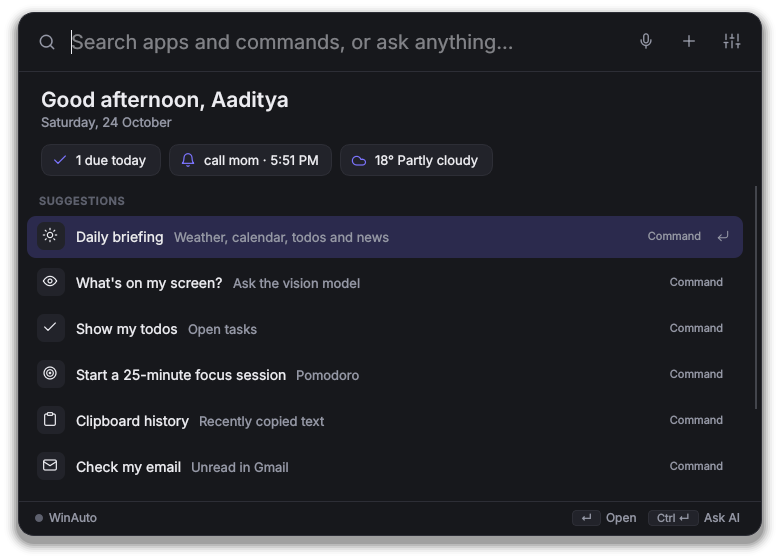
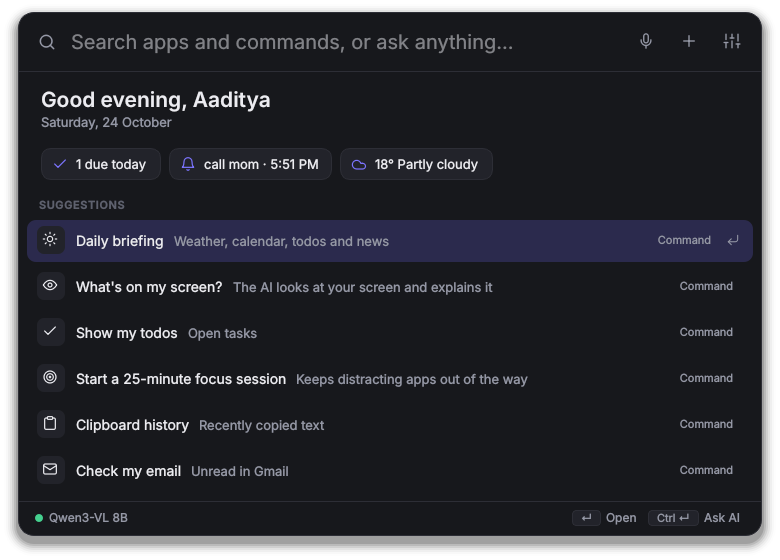
First-run home fits: cards keep their height, chips wait for the welcome card
With the welcome card, the AI download card and a weather chip all showing,
the cards were squashed and cut off. Cards now keep their full height, the
suggestions list scrolls instead, the chips come back after "Got it", and
the download message fits on one line. New screenshots in the docs.

Claude-Session: https://claude.ai/code/session_019hB6Vm8x9MLf8WnbyQBEFs

diff --git a/winauto/ui/home.py b/winauto/ui/home.py
@@ -41,13 +41,13 @@ class HomeView(QWidget):
         # First run only: how to use WinAuto.
         self.welcome = WelcomeCard(palette)
         welcome_box = QHBoxLayout()
-        welcome_box.setContentsMargins(22, 8, 22, 0)
+        welcome_box.setContentsMargins(22, 2, 22, 0)  # hidden boxes keep their margins: keep them small
         welcome_box.addWidget(self.welcome)
         v.addLayout(welcome_box)
         # Built-in AI download/loading progress (hidden when there's nothing to say).
         self.setup = SetupCard(palette)
         setup_box = QHBoxLayout()
-        setup_box.setContentsMargins(22, 8, 22, 0)
+        setup_box.setContentsMargins(22, 2, 22, 0)
         setup_box.addWidget(self.setup)
         v.addLayout(setup_box)
         self.widgets_row = QHBoxLayout()
@@ -55,7 +55,9 @@ class HomeView(QWidget):
         self.widgets_row.setSpacing(8)
         v.addLayout(self.widgets_row)
         self.list = ResultList(palette)
+        self.list.setMinimumHeight(40)  # the cards above keep their full height; the list scrolls
         v.addWidget(self.list, 1)
+        self._widget_items: list[tuple[str, str]] = []
         self.refresh_greeting("")
 
     def refresh_greeting(self, name: str) -> None:
@@ -64,8 +66,15 @@ class HomeView(QWidget):
         self.greeting.setText(f"{part}{', ' + name.split()[0] if name else ''}")
         self.sub.setText(now.strftime("%A, %d %B"))
 
+    def hide_welcome(self) -> None:
+        self.welcome.hide()
+        self.set_widgets(self._widget_items)  # back in the room the welcome card used
+
     def set_widgets(self, items: list[tuple[str, str]]) -> None:
+        self._widget_items = list(items)
         clear_layout(self.widgets_row)
+        if not self.welcome.isHidden():
+            return  # first run: the welcome card needs the room
         for icon_name, text in items:
             box = QFrame()
             box.setObjectName("Widget")

diff --git a/tests/test_ui.py b/tests/test_ui.py
@@ -252,3 +252,21 @@ def test_reopening_later_starts_over(qapp, ctx):
     popup._hidden_at -= 600  # ten minutes later
     controller.maybe_start_over()
     assert not popup.has_chat and popup.mode == "home"
+
+
+def test_first_run_cards_are_not_squashed(qapp, ctx):
+    """Welcome + AI download + a home chip on a first run: the cards keep their full height."""
+    from winauto.services.ai_setup import SetupView
+
+    popup, controller, _ = _app_popup(qapp, ctx)
+    popup.show_popup()
+    controller.refresh_home()
+    popup.show_setup(SetupView(True, "Setting up your private AI", "Downloading Qwen3-VL 8B (5.8 GB, only this "
+                               "once). Quick commands work meanwhile.", 0.4, "2.3 GB of 5.8 GB", "pause", "Pause"))
+    popup.home.set_widgets([("cloud", "18° Partly cloudy")])
+    wait_for(qapp, lambda: False, timeout=0.2)
+    for card in (popup.home.welcome, popup.home.setup):
+        assert card.isVisible() and card.height() >= card.heightForWidth(card.width()) - 1
+    assert popup.home.widgets_row.count() == 0  # the chips wait until the welcome card is put away
+    popup.home.welcome.done.click()
+    assert popup.home.widgets_row.count() > 0

diff --git a/winauto/ui/controller.py b/winauto/ui/controller.py
@@ -365,7 +365,7 @@ class Controller(QObject):
     def dismiss_welcome(self) -> None:
         if self.runtime is not None:
             self.runtime.home.dismiss_welcome()
-        self.popup.home.welcome.hide()
+        self.popup.home.hide_welcome()
 
     def maybe_morning_briefing(self) -> None:
         if self.runtime is None or self._busy or self.popup.has_chat:
@@ -386,7 +386,7 @@ class Controller(QObject):
             config = self.runtime.config
             self.popup.home.welcome.show_welcome(pretty_hotkey(config.hotkey), config.start_with_windows)
         else:
-            self.popup.home.welcome.hide()
+            self.popup.home.hide_welcome()
         self.popup.home.refresh_greeting(home.user_name)
         self.popup.home.set_lists(home.suggestions(), home.recent())
         threading.Thread(target=self._collect_home_data, daemon=True, name="home").start()

diff --git a/winauto/ui/setup.py b/winauto/ui/setup.py
@@ -5,7 +5,7 @@ from __future__ import annotations
 from typing import Any
 
 from PySide6.QtCore import Qt, QTimer, Signal
-from PySide6.QtWidgets import QFrame, QHBoxLayout, QLabel, QProgressBar, QPushButton, QVBoxLayout
+from PySide6.QtWidgets import QFrame, QHBoxLayout, QLabel, QProgressBar, QPushButton, QSizePolicy, QVBoxLayout
 
 from winauto.ui.icons import pixmap
 from winauto.ui.theme import Palette
@@ -21,6 +21,8 @@ class SetupCard(QFrame):
         super().__init__()
         self.p = palette
         self.setObjectName("Card")
+        # Never squashed: the suggestions list below scrolls instead.
+        self.setSizePolicy(QSizePolicy.Policy.Preferred, QSizePolicy.Policy.Fixed)
         h = QHBoxLayout(self)
         h.setContentsMargins(14, 12, 14, 12)
         h.setSpacing(12)

diff --git a/winauto/ui/welcome.py b/winauto/ui/welcome.py
@@ -3,7 +3,7 @@
 from __future__ import annotations
 
 from PySide6.QtCore import Qt, Signal
-from PySide6.QtWidgets import QFrame, QHBoxLayout, QLabel, QPushButton, QVBoxLayout
+from PySide6.QtWidgets import QFrame, QHBoxLayout, QLabel, QPushButton, QSizePolicy, QVBoxLayout
 
 from winauto.ui.icons import pixmap
 from winauto.ui.theme import Palette
@@ -17,6 +17,8 @@ class WelcomeCard(QFrame):
     def __init__(self, palette: Palette):
         super().__init__()
         self.setObjectName("Card")
+        # Never squashed: the suggestions list below scrolls instead.
+        self.setSizePolicy(QSizePolicy.Policy.Preferred, QSizePolicy.Policy.Fixed)
         h = QHBoxLayout(self)
         h.setContentsMargins(14, 12, 14, 12)
         h.setSpacing(12)

diff --git a/winauto/services/ai_setup.py b/winauto/services/ai_setup.py
@@ -187,8 +187,7 @@ class AISetup:
             pct = int(st.fraction * 100)
             return SetupView(
                 True, "Setting up your private AI",
-                f"Downloading {label} ({gb(st.total)}, only this once). Quick commands work meanwhile, "
-                "and the AI is ready as soon as this finishes.",
+                f"Downloading {label} ({gb(st.total)}, only this once). Quick commands work meanwhile.",
                 st.fraction, self._detail(st), "pause", "Pause", None, f"Downloading AI · {pct}%")
         if st.state == MISSING:
             size = gb(self.ai.missing_bytes())

diff --git a/docs/getting-started.md b/docs/getting-started.md
@@ -34,9 +34,9 @@ python -m winauto
 
 ## 2. First run: WinAuto sets up its AI
 
-WinAuto opens with a short welcome message and puts an icon in the system tray (bottom right, near the clock; it may be under the **^** arrow).
+WinAuto opens and puts an icon in the system tray (bottom right, near the clock; it may be under the **^** arrow). A **Welcome** card on the home screen has two handy buttons: **Start with Windows**, so the shortcut works as soon as you sign in, and **Show examples**. Press **Got it** when you're done with it.
 
-On the home screen a card shows WinAuto **downloading its AI** (only this once). It picks the model that suits your graphics card: **Qwen3-VL 8B** (5.8 GB) for 8 GB cards and up, otherwise **Qwen3-VL 4B** (3.0 GB). Both chat, use WinAuto's tools and understand screenshots. The card shows progress and time left. **Pause** stops it, and it continues where it left off, even after a restart. Instant commands work while it downloads. When it's done the AI loads and the dot at the bottom left turns green.
+On the home screen a card shows WinAuto **downloading its AI** (only this once). It picks the model that suits your graphics card: **Qwen3-VL 8B** (5.8 GB) for 8 GB cards and up, otherwise **Qwen3-VL 4B** (3.0 GB). Both chat, use WinAuto's tools and understand screenshots. The card shows progress and time left. **Pause** stops it, and it continues where it left off, even after a restart. Instant commands work while it downloads. When it's done the AI loads, the dot at the bottom left turns green and Windows shows a "Your AI is ready" notification, so you can close the popup and carry on meanwhile.
 
 ![Downloading the AI](images/setup.png)
 
@@ -59,6 +59,9 @@ Press **Ctrl+Alt+Space** and type:
 | `what's the weather` | The weather where you are |
 | `who won the last football world cup?` | The AI searches the web and answers |
 | select text in any app, then **Ctrl+Alt+T** | Fix grammar, rewrite, translate, summarize |
+| `help` | Examples of everything you can type |
+
+Don't remember the wording? Type the first few letters, like `rem` or `email`, and pick a **Fill in** result: it starts the command for you ("remind me to …") with an example of how to finish it.
 
 ## 4. Make it yours
 
